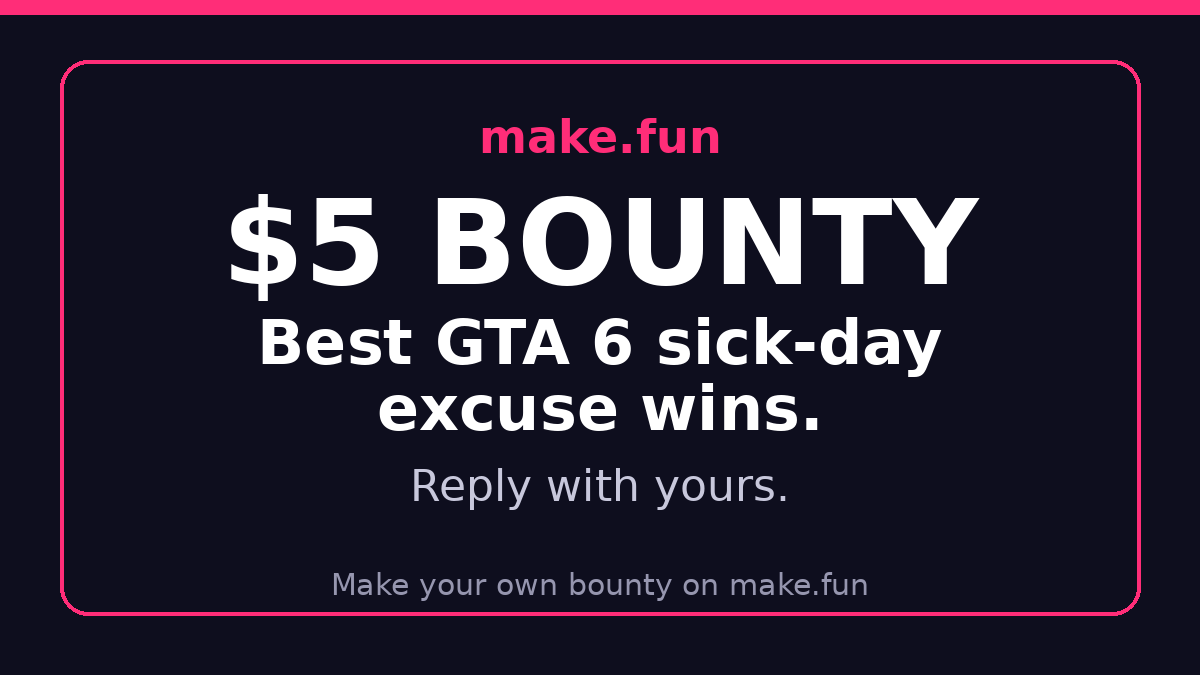
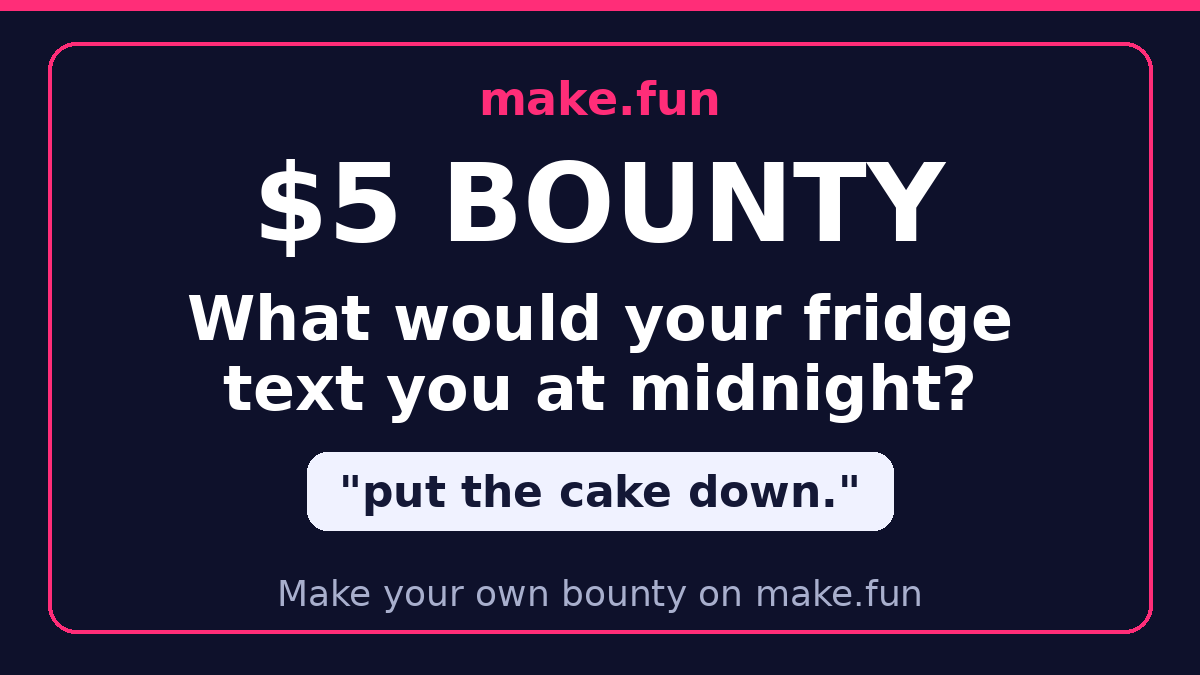
Replace GTA concept with fresh fridge-at-midnight bounty concept

Changed region(s): [[0.0308, 0.0622, 0.9867, 0.9644], [0.0, 0.0, 1.0, 0.0311]]

diff --git a/README.md b/README.md
@@ -8,12 +8,13 @@ Entry for the make.fun bounty [Promote make.fun's make-your-own-bounty post on X
 
 ## The post
 
-One post of my own on X from [@takiwanx](https://x.com/takiwanx), quoting make.fun's post https://x.com/makefunai/status/2124915864336236646, with a photo of its own (`post-photo.png`) attached. Its text says what bounty I would make first — $5 for the best GTA 6 sick-day excuse — and asks readers to reply with theirs.
+One post of my own on X from [@takiwanx](https://x.com/takiwanx), quoting make.fun's post https://x.com/makefunai/status/2124915864336236646, with a photo of its own (`post-photo.png`) attached. Its text says what bounty I would make first — $5 for the best text my fridge would send me at midnight — and asks readers to reply with theirs.
 
 The exact post text:
 
-> My first bounty: $5 for the best GTA 6 sick-day excuse. Winner gets paid, my boss gets a note.
-> What's yours? Reply below.
+> My first bounty: $5 for the best text my fridge would send me at midnight.
+> Mine: 'put the cake down.'
+> What would yours say? Reply below.
 > Make your own bounty on @makefunai: https://make.fun/sponsor/new
 > makefun-sugar-igloo-almond
 
